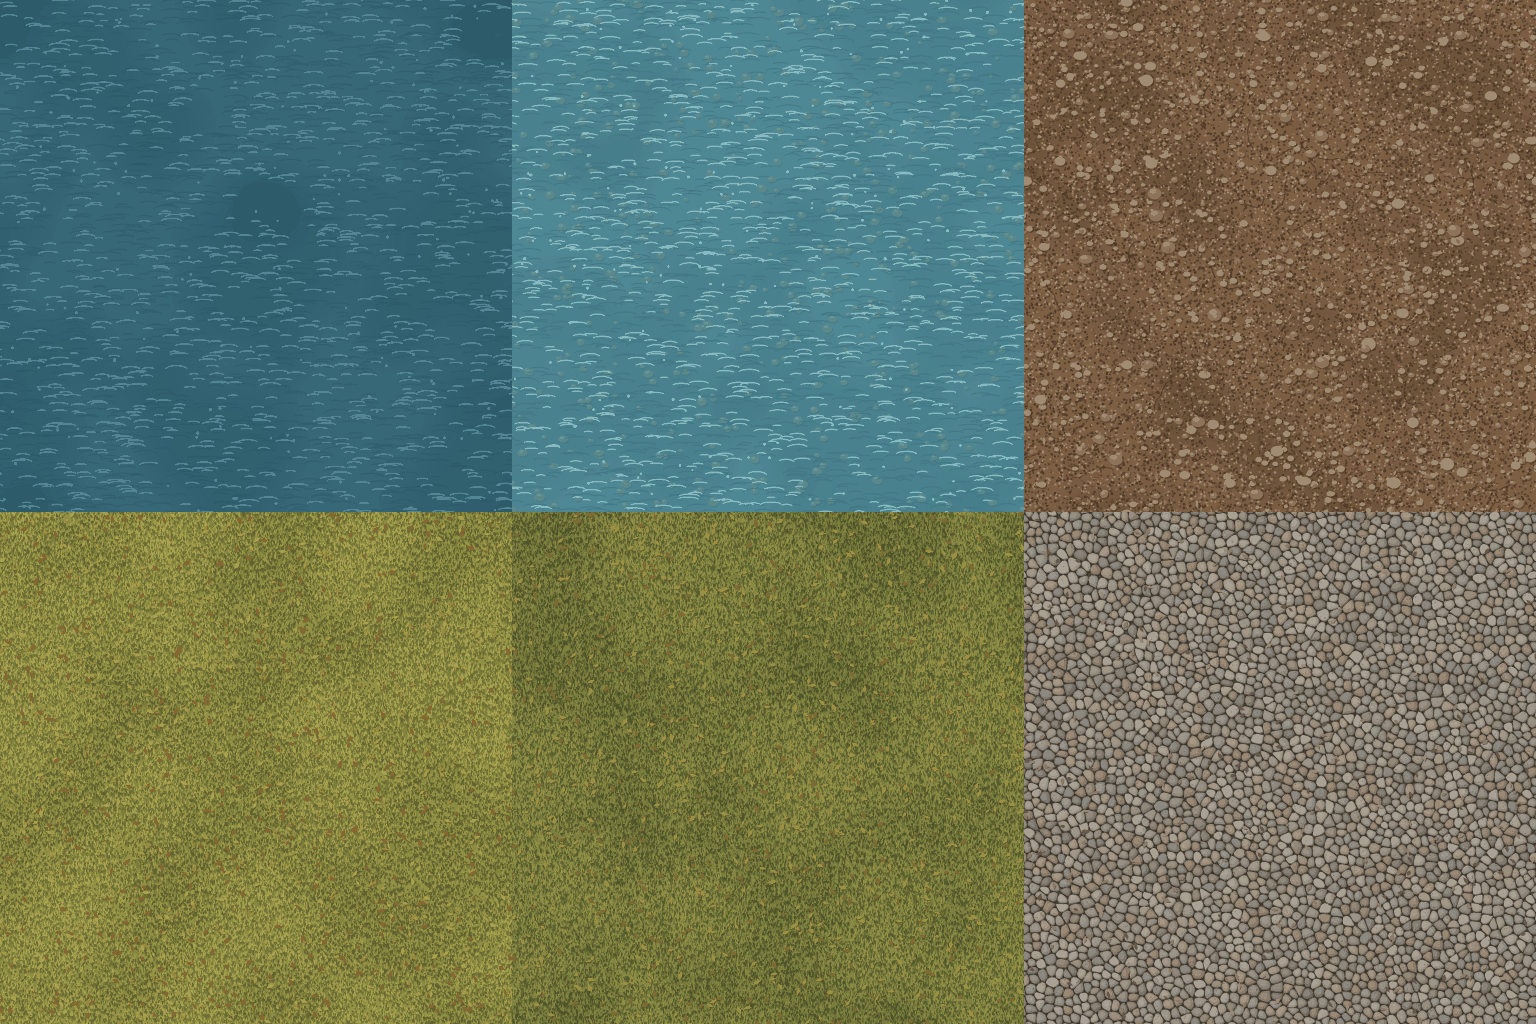
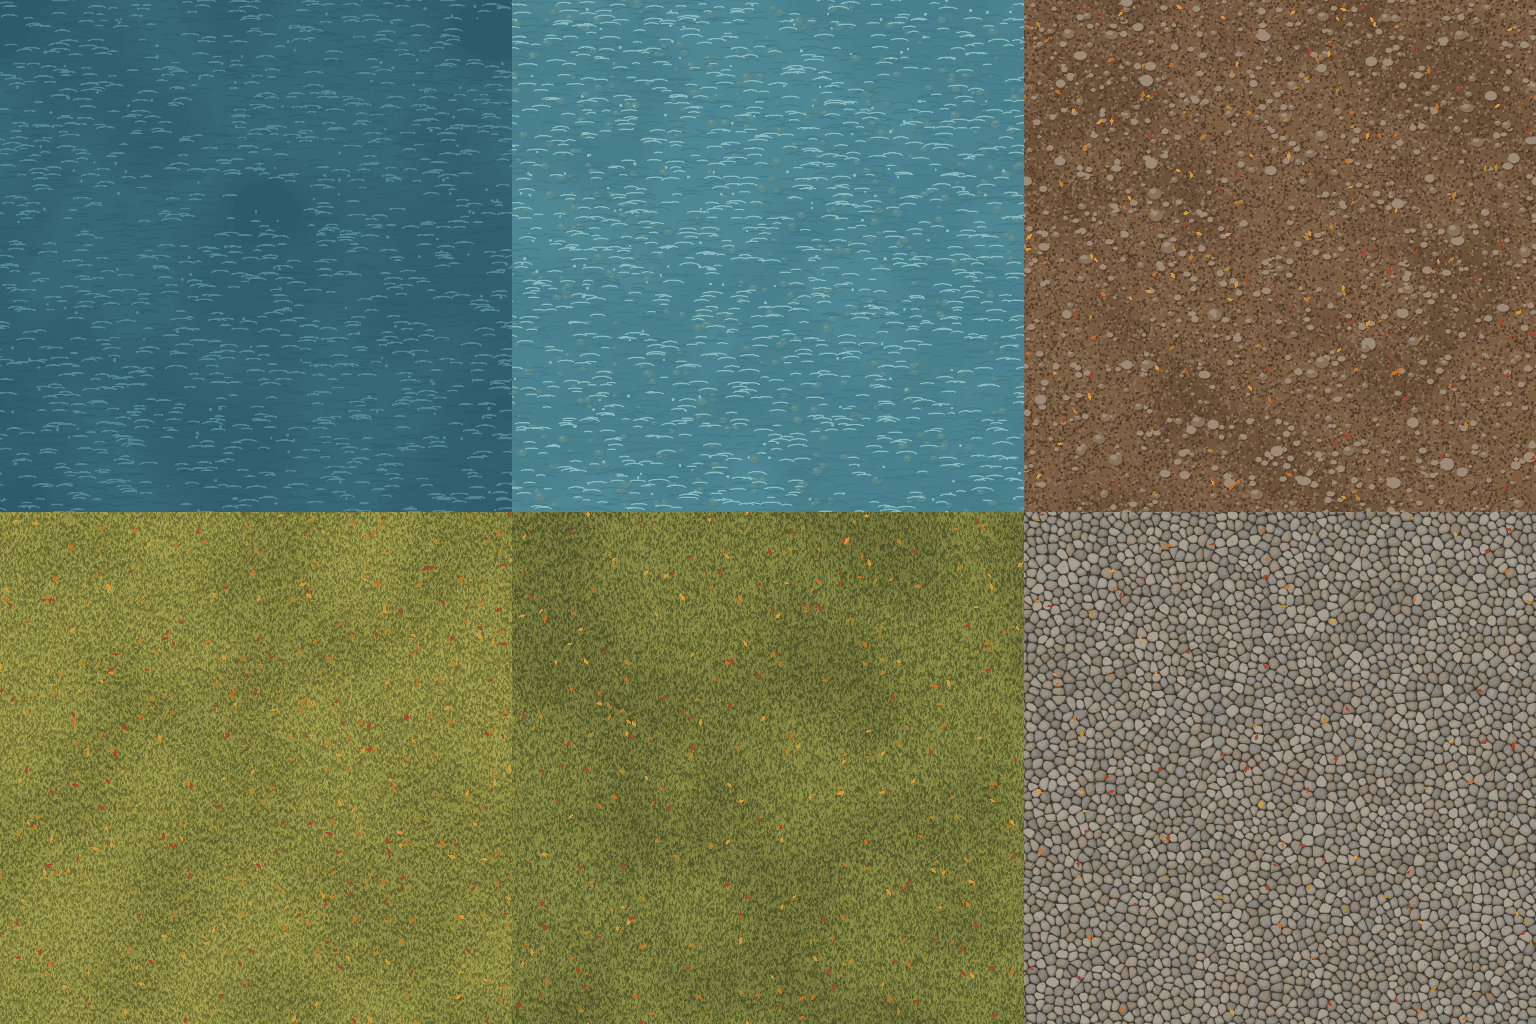
LLM-967: autumn leaves keep their own colours, a third as many (#1360)
* LLM-967: autumn leaves keep their own colours, a third as many

Every texture is reduced to 16 colours. The greens took them all but one, so
the five leaf colours on the grass merged into one muddy brown, and the
leaves read as droppings (Jeff). On dirt they merged into the dirt browns.

Leaves are now painted on a layer of their own and laid on after the
reduction, each pixel at least half covered taking the nearest of four leaf
colours: orange, gold, red, tan. The dull brown is gone. A third as many
leaves (Jeff's pick from rendered options). The leaf shadow is dropped.
Only the autumn atlas changes; water is byte-identical.

* LLM-967: --check proves a half-covered pixel keeps its leaf colour

code_review's ask: shrink() relies on Pillow averaging RGBA with
premultiplied alpha. check_leaf_cover shrinks a block half covered by an
orange leaf and wants orange back. With straight-alpha averaging patched in,
the pixel snaps to red and the check fails.

---------

diff --git a/tools/terrain-art/build.py b/tools/terrain-art/build.py
@@ -1,7 +1,7 @@
 """Paints salem's ground (LLM-967): every pixel is drawn here, no pack art.
 
     python tools/terrain-art/build.py
-    python tools/terrain-art/build.py --check   # cobble cells exact, no wrap seams
+    python tools/terrain-art/build.py --check   # cobble cells exact, no wrap seams, leaves keep colour
 
 Writes, under client/assets/terrain/:
   ground-<season>.png  one atlas per season (summer, autumn, winter, snowy):
@@ -16,9 +16,10 @@ them with the PNGs.
 
 How a texture is made: each terrain is painted on a 2048x2048 canvas with real
 shapes (tapered grass blades, clover, flowers, shaded pebbles, cobbles lit from
-the upper left, ripples), shrunk by area average to 512x512, and reduced to 14
-colours. Every shape near a canvas edge is drawn again across the edge, and the
-shrink factor is exact, so the texture wraps. It repeats every 16 tiles (32 px
+the upper left, ripples), shrunk by area average to 512x512, and reduced to 16
+colours. Autumn leaves are painted on a layer of their own and laid on after
+the reduction, in their own colours. Every shape near a canvas edge is drawn
+again across the edge, and the shrink factor is exact, so the texture wraps. It repeats every 16 tiles (32 px
 tiles); the shader samples it by world position, so tiles show no grid.
 """
 
@@ -210,9 +211,11 @@ def flowers(cv, rnd, count, petals, centre):
     cv.blend(lay)
 
 
-def fallen_leaves(cv, rnd, count, colours, shadow):
-    """Autumn: small leaves lying flat, each with a soft shadow."""
-    lay = cv.layer()
+def fallen_leaves(rnd, count, colours):
+    """Autumn: small leaves lying flat, alone on a transparent layer. shrink()
+    lays them over the ground after the ground's colours are reduced; drawn into
+    the ground, every leaf shared one muddy brown and read as litter."""
+    lay = Canvas.layer()
     d = ImageDraw.Draw(lay)
     for _ in range(count):
         x = rnd.uniform(0, W)
@@ -224,11 +227,10 @@ def fallen_leaves(cv, rnd, count, colours, shadow):
                (math.cos(a + math.pi) * r, math.sin(a + math.pi) * r), (math.cos(a - 1.7) * r * 0.45, math.sin(a - 1.7) * r * 0.45)]
 
         def draw_leaf(dr, bx, by, pts=pts, col=col):
-            dr.polygon([(bx + px + 3, by + py + 4) for px, py in pts], fill=rgb(shadow, 120))
             dr.polygon([(bx + px, by + py) for px, py in pts], fill=rgb(col))
 
-        cv.wrap_draw(d, draw_leaf, x, y, r + 6)
-    cv.blend(lay)
+        Canvas.wrap_draw(d, draw_leaf, x, y, r)
+    return lay
 
 
 def tufts(cv, rnd, count, dark, light, shadow):
@@ -319,8 +321,6 @@ def paint_grass(seed, pal, dense):
     flower_rnd = random.Random(seed + 500)
     if pal.get("petals"):
         flowers(cv, flower_rnd, 20 if dense else 70, pal["petals"], pal["centre"])
-    if pal.get("leaves"):
-        fallen_leaves(cv, flower_rnd, 850 if dense else 1100, pal["leaves"], pal["dark"])
     return cv.img
 
 
@@ -332,8 +332,6 @@ def paint_dirt(seed, pal):
     cracks(cv, rnd, 60, pal["dark"])
     pebbles(cv, rnd, 900, 7, 16, pal["stones"], pal["stone_lit"], pal["dark"])
     pebbles(cv, rnd, 90, 16, 28, pal["stones"], pal["stone_lit"], pal["dark"])
-    if pal.get("leaves"):
-        fallen_leaves(cv, random.Random(seed + 500), 500, pal["leaves"], pal["dark"])
     return cv.img
 
 
@@ -486,8 +484,6 @@ def paint_cobble(seed, pal):
     cv.blend(body)
     cv.blend(sheen)
     speckle(cv, rnd, [pal["gap_dark"], pal["lit"]], int(7000 / (s * s)), 1.5 * s, 3 * s, 70)
-    if pal.get("leaves"):
-        fallen_leaves(cv, random.Random(seed + 500), 310, pal["leaves"], pal["gap_dark"])
     return cv.img
 
 
@@ -542,7 +538,13 @@ SUMMER = {
     DEEP_WATER: dict(base="336a7d", deep="2c5e70", lit="3d778a", light="76a9b7", glint="cbe5ec"),
 }
 
-LEAVES = ["c8702a", "d99a3a", "a8452a", "8f5b2a", "b8862e"]
+# Autumn leaf colours: orange, gold, red, tan. No dull brown: a brown leaf
+# read as a dropping (Jeff, 2026-11-12).
+LEAVES = ["c8702a", "d99a3a", "a8452a", "b8862e"]
+# Leaves per texture. A third of the first counts (1100 / 850 / 500 / 310),
+# which littered the ground (Jeff, 2026-11-12).
+LEAF_COUNTS = {LIGHT_GRASS: 370, DARK_GRASS: 280, DIRT: 170, COBBLESTONE: 100}
+LEAF_SEED = 500
 
 AUTUMN = {
     LIGHT_GRASS: dict(base="84863d", shade="6d6f36", lit="9e9c48", dark="595a2c", mid="8e8f42", light="bab25a",
@@ -583,7 +585,16 @@ PALETTES = {"summer": SUMMER, "autumn": AUTUMN, "winter": WINTER, "snowy": SNOWY
 
 
 def paint(terrain, season):
+    """The terrain's ground canvas, and its autumn leaves on a layer of their
+    own, or None in a season with no leaves."""
     pal = PALETTES[season][terrain]
+    leaves = None
+    if pal.get("leaves"):
+        leaves = fallen_leaves(random.Random(LEAF_SEED + terrain), LEAF_COUNTS[terrain], pal["leaves"])
+    return paint_ground(terrain, season, pal), leaves
+
+
+def paint_ground(terrain, season, pal):
     if season == "snowy" and terrain in (LIGHT_GRASS, DARK_GRASS):
         return paint_snow(20, pal)
     if season == "snowy" and terrain == DIRT:
@@ -601,18 +612,35 @@ def paint(terrain, season):
     return paint_water(6, pal, False)
 
 
-def shrink(img):
+def shrink(img, leaves=None):
     """Area-average to TEX (an exact factor, so the texture still wraps), then
-    reduce to a small palette with no dither."""
+    reduce to a small palette with no dither. leaves, if given, is shrunk the
+    same way and laid on after the reduction: a pixel at least half covered by
+    leaf takes the nearest LEAVES colour, so the leaves never share the
+    ground's palette."""
     small = img.resize((TEX, TEX), Image.BOX).convert("RGB")
-    return small.quantize(colors=COLOURS, method=Image.Quantize.MEDIANCUT, dither=Image.Dither.NONE).convert("RGB")
+    small = small.quantize(colors=COLOURS, method=Image.Quantize.MEDIANCUT, dither=Image.Dither.NONE).convert("RGB")
+    if leaves is None:
+        return small
+    # Pillow averages an RGBA image with premultiplied alpha, so a part-covered
+    # pixel keeps the leaf's colour, not a blend with the transparent black.
+    cover = leaves.resize((TEX, TEX), Image.BOX)
+    colours = [rgb(h)[:3] for h in LEAVES]
+    src = cover.load()
+    dst = small.load()
+    for y in range(TEX):
+        for x in range(TEX):
+            r, g, b, a = src[x, y]
+            if a >= 128:
+                dst[x, y] = min(colours, key=lambda c: (c[0] - r) ** 2 + (c[1] - g) ** 2 + (c[2] - b) ** 2)
+    return small
 
 
 def build_atlas(season):
     rows = (len(LAYER_ORDER) + ATLAS_COLS - 1) // ATLAS_COLS
     atlas = Image.new("RGB", (ATLAS_COLS * TEX, rows * TEX))
     for rank, terrain in enumerate(LAYER_ORDER):
-        atlas.paste(shrink(paint(terrain, season)), ((rank % ATLAS_COLS) * TEX, (rank // ATLAS_COLS) * TEX))
+        atlas.paste(shrink(*paint(terrain, season)), ((rank % ATLAS_COLS) * TEX, (rank // ATLAS_COLS) * TEX))
     return atlas
 
 
@@ -806,11 +834,27 @@ def check_wrap_seams():
     return ok
 
 
+def check_leaf_cover():
+    """A pixel half covered by a leaf keeps that leaf's colour through
+    shrink(), which relies on Pillow averaging RGBA with premultiplied alpha.
+    Blended toward the transparent black instead, a half-covered orange pixel
+    would snap to the red leaf colour (code_review, LLM-967)."""
+    ground = Image.new("RGBA", (W, W), rgb(AUTUMN[DARK_GRASS]["base"]))
+    leaves = Canvas.layer()
+    # The left half of the 4x4 canvas block that shrinks to texture pixel (0, 0).
+    ImageDraw.Draw(leaves).rectangle((0, 0, 1, 3), fill=rgb(LEAVES[0]))
+    got = shrink(ground, leaves).getpixel((0, 0))
+    want = rgb(LEAVES[0])[:3]
+    print("leaf cover: half-covered pixel %s, want %s" % ("%02x%02x%02x" % got, LEAVES[0]))
+    return got == want
+
+
 def main():
     if "--check" in sys.argv:
         cobbles_ok = check_cobble_cells()
         seams_ok = check_wrap_seams()
-        sys.exit(0 if cobbles_ok and seams_ok else 1)
+        leaves_ok = check_leaf_cover()
+        sys.exit(0 if cobbles_ok and seams_ok and leaves_ok else 1)
     os.makedirs(ASSET_DIR, exist_ok=True)
     for name in os.listdir(ASSET_DIR):
         # The tile sheets of the earlier 16 px layout are replaced by atlases.
